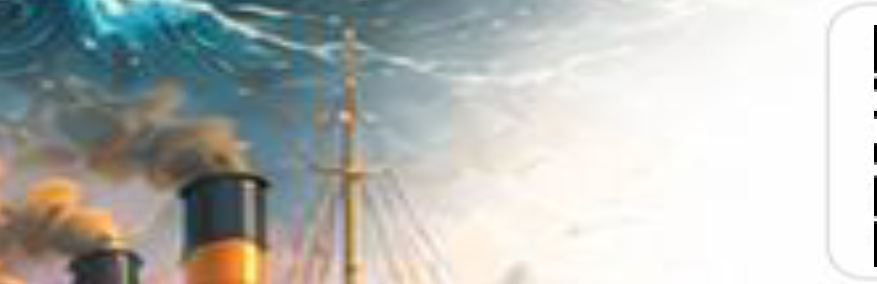
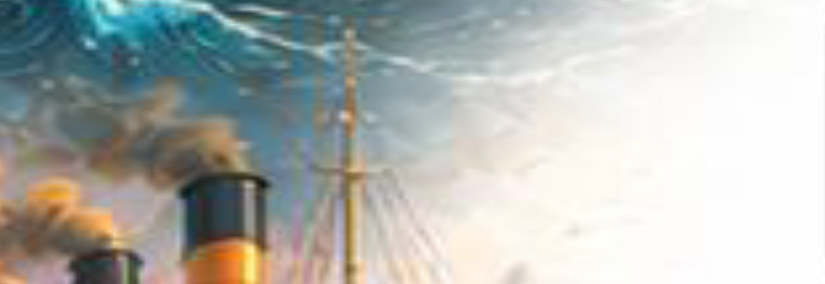
fix: test with section

diff --git a/index.html b/index.html
@@ -1,18 +1,19 @@
 ```html
 <!DOCTYPE html>
-<html>
+<html lang="en">
 <head>
     <meta charset="UTF-8">
+    <meta name="viewport" content="width=device-width, initial-scale=1.0">
     <title>Lexima Email</title>
 </head>
 
 <body style="margin:0;padding:0;background:#eeeeee;">
 
-<table width="100%" cellpadding="0" cellspacing="0" border="0">
+<table width="100%" border="0" cellpadding="0" cellspacing="0" style="border-collapse:collapse;border-spacing:0;">
 <tr>
-<td align="center">
+<td align="center" style="padding:0;margin:0;">
 
-<table width="600" cellpadding="0" cellspacing="0" border="0" style="background:#ffffff;">
+<table width="600" border="0" cellpadding="0" cellspacing="0" style="border-collapse:collapse;border-spacing:0;background:#ffffff;mso-table-lspace:0pt;mso-table-rspace:0pt;">
 
     <!-- Intro -->
     <tr>
@@ -23,36 +24,42 @@
 
     <!-- Section 1 -->
     <tr>
-        <td>
-            <img src="section1.png" width="600" style="display:block;width:100%;border:0;">
+        <td style="padding:0;margin:0;line-height:0;font-size:0;">
+            <img
+                src="https://danyfadhilah.github.io/lexima-email/assets/section1.png"
+                width="600"
+                style="display:block;width:100%;max-width:600px;border:0;margin:0;padding:0;vertical-align:top;"
+            >
         </td>
     </tr>
 
-    <!-- Section 2 (5 kolom) -->
+    <!-- Section 2 -->
     <tr>
-        <td>
+        <td style="padding:0;margin:0;line-height:0;font-size:0;">
 
-            <table width="100%" cellpadding="0" cellspacing="0" border="0">
+            <table width="100%" border="0" cellpadding="0" cellspacing="0" style="border-collapse:collapse;border-spacing:0;mso-table-lspace:0pt;mso-table-rspace:0pt;">
                 <tr>
 
-                    <td width="20%">
-                        <a href="#"><img src="qr1.png" width="120" style="display:block;width:100%;border:0;"></a>
-                    </td>
-
-                    <td width="20%">
-                        <a href="#"><img src="qr2.png" width="120" style="display:block;width:100%;border:0;"></a>
-                    </td>
-
-                    <td width="20%">
-                        <a href="#"><img src="qr3.png" width="120" style="display:block;width:100%;border:0;"></a>
-                    </td>
-
-                    <td width="20%">
-                        <a href="#"><img src="qr4.png" width="120" style="display:block;width:100%;border:0;"></a>
-                    </td>
-
-                    <td width="20%">
-                        <a href="#"><img src="qr5.png" width="120" style="display:block;width:100%;border:0;"></a>
+                    <td width="20%" style="padding:0;margin:0;line-height:0;font-size:0;">
+                        <a href="#" style="display:block;">
+                            <img src="https://danyfadhilah.github.io/lexima-email/assets/section2_1.png" width="120" style="display:block;width:100%;border:0;margin:0;padding:0;vertical-align:top;">
+                        </a>
+                    </td><td width="20%" style="padding:0;margin:0;line-height:0;font-size:0;">
+                        <a href="#" style="display:block;">
+                            <img src="https://danyfadhilah.github.io/lexima-email/assets/section2_2.png" width="120" style="display:block;width:100%;border:0;margin:0;padding:0;vertical-align:top;">
+                        </a>
+                    </td><td width="20%" style="padding:0;margin:0;line-height:0;font-size:0;">
+                        <a href="#" style="display:block;">
+                            <img src="https://danyfadhilah.github.io/lexima-email/assets/section2_3.png" width="120" style="display:block;width:100%;border:0;margin:0;padding:0;vertical-align:top;">
+                        </a>
+                    </td><td width="20%" style="padding:0;margin:0;line-height:0;font-size:0;">
+                        <a href="#" style="display:block;">
+                            <img src="https://danyfadhilah.github.io/lexima-email/assets/section2_4.png" width="120" style="display:block;width:100%;border:0;margin:0;padding:0;vertical-align:top;">
+                        </a>
+                    </td><td width="20%" style="padding:0;margin:0;line-height:0;font-size:0;">
+                        <a href="#" style="display:block;">
+                            <img src="https://danyfadhilah.github.io/lexima-email/assets/section2_5.png" width="120" style="display:block;width:100%;border:0;margin:0;padding:0;vertical-align:top;">
+                        </a>
                     </td>
 
                 </tr>
@@ -63,28 +70,34 @@
 
     <!-- Section 3 -->
     <tr>
-        <td>
-            <img src="section3.png" width="600" style="display:block;width:100%;border:0;">
+        <td style="padding:0;margin:0;line-height:0;font-size:0;">
+            <img
+                src="https://danyfadhilah.github.io/lexima-email/assets/section3.png"
+                width="600"
+                style="display:block;width:100%;border:0;margin:0;padding:0;vertical-align:top;"
+            >
         </td>
     </tr>
 
-    <!-- Section 4 (3 kolom) -->
+    <!-- Section 4 -->
     <tr>
-        <td>
+        <td style="padding:0;margin:0;line-height:0;font-size:0;">
 
-            <table width="100%" cellpadding="0" cellspacing="0" border="0">
+            <table width="100%" border="0" cellpadding="0" cellspacing="0" style="border-collapse:collapse;border-spacing:0;">
                 <tr>
 
-                    <td width="33.33%">
-                        <a href="#"><img src="item1.png" width="200" style="display:block;width:100%;border:0;"></a>
-                    </td>
-
-                    <td width="33.33%">
-                        <a href="#"><img src="item2.png" width="200" style="display:block;width:100%;border:0;"></a>
-                    </td>
-
-                    <td width="33.33%">
-                        <a href="#"><img src="item3.png" width="200" style="display:block;width:100%;border:0;"></a>
+                    <td width="33.333%" style="padding:0;margin:0;line-height:0;font-size:0;">
+                        <a href="#" style="display:block;">
+                            <img src="https://danyfadhilah.github.io/lexima-email/assets/section4_1.png" width="200" style="display:block;width:100%;border:0;margin:0;padding:0;vertical-align:top;">
+                        </a>
+                    </td><td width="33.333%" style="padding:0;margin:0;line-height:0;font-size:0;">
+                        <a href="#" style="display:block;">
+                            <img src="https://danyfadhilah.github.io/lexima-email/assets/section4_2.png" width="200" style="display:block;width:100%;border:0;margin:0;padding:0;vertical-align:top;">
+                        </a>
+                    </td><td width="33.333%" style="padding:0;margin:0;line-height:0;font-size:0;">
+                        <a href="#" style="display:block;">
+                            <img src="https://danyfadhilah.github.io/lexima-email/assets/section4_3.png" width="200" style="display:block;width:100%;border:0;margin:0;padding:0;vertical-align:top;">
+                        </a>
                     </td>
 
                 </tr>
@@ -95,37 +108,23 @@
 
     <!-- Section 5 -->
     <tr>
-        <td>
-            <img src="section5.png" width="600" style="display:block;width:100%;border:0;">
+        <td style="padding:0;margin:0;line-height:0;font-size:0;">
+            <img
+                src="https://danyfadhilah.github.io/lexima-email/assets/section5.png"
+                width="600"
+                style="display:block;width:100%;border:0;margin:0;padding:0;vertical-align:top;"
+            >
         </td>
     </tr>
 
-    <!-- Section 6 (5 kolom) -->
+    <!-- Section 6 -->
     <tr>
-        <td>
+        <td style="padding:0;margin:0;line-height:0;font-size:0;">
 
-            <table width="100%" cellpadding="0" cellspacing="0" border="0">
+            <table width="100%" border="0" cellpadding="0" cellspacing="0" style="border-collapse:collapse;border-spacing:0;">
                 <tr>
 
-                    <td width="20%">
-                        <a href="#"><img src="qr6.png" width="120" style="display:block;width:100%;border:0;"></a>
-                    </td>
-
-                    <td width="20%">
-                        <a href="#"><img src="qr7.png" width="120" style="display:block;width:100%;border:0;"></a>
-                    </td>
-
-                    <td width="20%">
-                        <a href="#"><img src="qr8.png" width="120" style="display:block;width:100%;border:0;"></a>
-                    </td>
-
-                    <td width="20%">
-                        <a href="#"><img src="qr9.png" width="120" style="display:block;width:100%;border:0;"></a>
-                    </td>
-
-                    <td width="20%">
-                        <a href="#"><img src="qr10.png" width="120" style="display:block;width:100%;border:0;"></a>
-                    </td>
+                    <td width="20%" style="padding:0;line-height:0;font-size:0;"><a href="#" style="display:block;"><img src="https://danyfadhilah.github.io/lexima-email/assets/section6_1.png" width="120" style="display:block;width:100%;border:0;vertical-align:top;"></a></td><td width="20%" style="padding:0;line-height:0;font-size:0;"><a href="#" style="display:block;"><img src="https://danyfadhilah.github.io/lexima-email/assets/section6_2.png" width="120" style="display:block;width:100%;border:0;vertical-align:top;"></a></td><td width="20%" style="padding:0;line-height:0;font-size:0;"><a href="#" style="display:block;"><img src="https://danyfadhilah.github.io/lexima-email/assets/section6_3.png" width="120" style="display:block;width:100%;border:0;vertical-align:top;"></a></td><td width="20%" style="padding:0;line-height:0;font-size:0;"><a href="#" style="display:block;"><img src="https://danyfadhilah.github.io/lexima-email/assets/section6_4.png" width="120" style="display:block;width:100%;border:0;vertical-align:top;"></a></td><td width="20%" style="padding:0;line-height:0;font-size:0;"><a href="#" style="display:block;"><img src="https://danyfadhilah.github.io/lexima-email/assets/section6_5.png" width="120" style="display:block;width:100%;border:0;vertical-align:top;"></a></td>
 
                 </tr>
             </table>
@@ -135,29 +134,23 @@
 
     <!-- Section 7 -->
     <tr>
-        <td>
-            <img src="section7.png" width="600" style="display:block;width:100%;border:0;">
+        <td style="padding:0;margin:0;line-height:0;font-size:0;">
+            <img
+                src="https://danyfadhilah.github.io/lexima-email/assets/section7.png"
+                width="600"
+                style="display:block;width:100%;border:0;margin:0;padding:0;vertical-align:top;"
+            >
         </td>
     </tr>
 
-    <!-- Section 8 (3 kolom) -->
+    <!-- Section 8 -->
     <tr>
-        <td>
+        <td style="padding:0;margin:0;line-height:0;font-size:0;">
 
-            <table width="100%" cellpadding="0" cellspacing="0" border="0">
+            <table width="100%" border="0" cellpadding="0" cellspacing="0" style="border-collapse:collapse;border-spacing:0;">
                 <tr>
 
-                    <td width="33.33%">
-                        <a href="#"><img src="bottom1.png" width="200" style="display:block;width:100%;border:0;"></a>
-                    </td>
-
-                    <td width="33.33%">
-                        <a href="#"><img src="bottom2.png" width="200" style="display:block;width:100%;border:0;"></a>
-                    </td>
-
-                    <td width="33.33%">
-                        <a href="#"><img src="bottom3.png" width="200" style="display:block;width:100%;border:0;"></a>
-                    </td>
+                    <td width="33.333%" style="padding:0;line-height:0;font-size:0;"><a href="#" style="display:block;"><img src="https://danyfadhilah.github.io/lexima-email/assets/section8_1.png" width="200" style="display:block;width:100%;border:0;vertical-align:top;"></a></td><td width="33.333%" style="padding:0;line-height:0;font-size:0;"><a href="#" style="display:block;"><img src="https://danyfadhilah.github.io/lexima-email/assets/section8_2.png" width="200" style="display:block;width:100%;border:0;vertical-align:top;"></a></td><td width="33.333%" style="padding:0;line-height:0;font-size:0;"><a href="#" style="display:block;"><img src="https://danyfadhilah.github.io/lexima-email/assets/section8_3.png" width="200" style="display:block;width:100%;border:0;vertical-align:top;"></a></td>
 
                 </tr>
             </table>
@@ -167,8 +160,12 @@
 
     <!-- Section 9 -->
     <tr>
-        <td>
-            <img src="section9.png" width="600" style="display:block;width:100%;border:0;">
+        <td style="padding:0;margin:0;line-height:0;font-size:0;">
+            <img
+                src="https://danyfadhilah.github.io/lexima-email/assets/section9.png"
+                width="600"
+                style="display:block;width:100%;border:0;margin:0;padding:0;vertical-align:top;"
+            >
         </td>
     </tr>
 